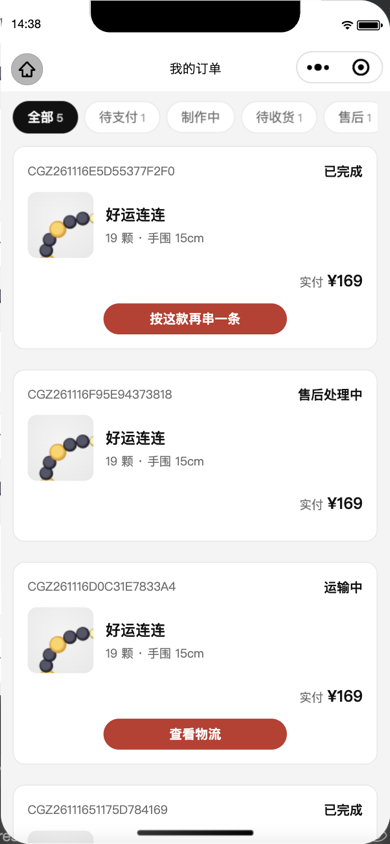
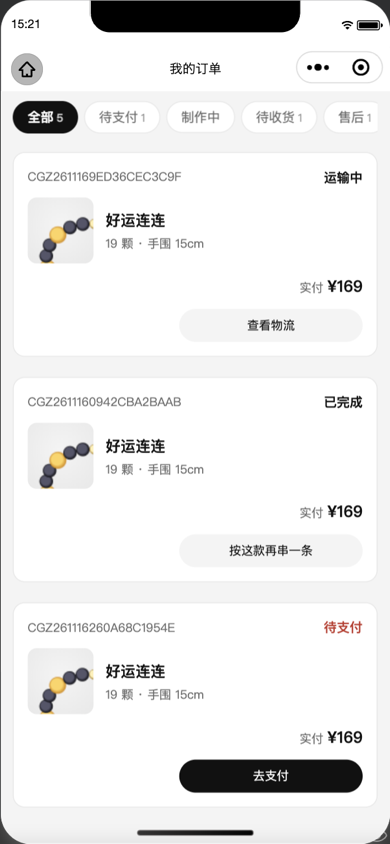
U8: 审核 1 订单动作改用黑灰小号按钮

diff --git a/miniprogram/features/orders/orders.js b/miniprogram/features/orders/orders.js
@@ -26,7 +26,8 @@ function buildRow(raw) {
     keywords,
     beads,
     afterSaleStatus: (order.state && order.state.afterSale ? order.state.afterSale.code : '') || order.afterSaleStatus || 'none',
-    action: actionCode ? { code: actionCode, label: (contract.actions || {})[actionCode] || actionCode } : null,
+    action: actionCode ? { code: actionCode, label: (contract.actions || {})[actionCode] || actionCode,
+      secondary: ['view_logistics', 'reorder', 'cancel_order', 'request_after_sale', 'edit_address', 'cancel_after_sale'].includes(actionCode) } : null,
   }
 }
 

diff --git a/docs/reports/U8.md b/docs/reports/U8.md
@@ -19,6 +19,7 @@
 | “我的”头像 | [改前](shots/U8/before/mine.png) / [改后](shots/U8/after/mine.png)；改后截图显示圆形默认头像 |
 | 分栏数字与列表一致 | `node --test miniprogram/tests/orders-visible.test.js`：`pass 2`、`fail 0` |
 | UI 规则 | `python3 tools/check-ui.py`：`UI check: 73 violations, 0 new` |
+| 审核后的按钮颜色 | [重截的我的订单](shots/U8/after/my-orders.png)：查看物流、按这款再串一条为浅灰；去支付为黑色，按钮高度用 `--h-btn-s` |
 
 ## 3. 改了的文件
 
@@ -63,3 +64,9 @@ docs/reports/shots/U8/after/mine.png
 ## 6. 没做 / 没验证 / 偏离卡片
 
 - 截图由微信开发者工具模拟器生成，未在真机逐一切换订单分栏；分栏行为由专项测试覆盖。需要负责人在真机看 `features/orders/orders` 和 `pages/mine/mine`。
+
+## 7. 审核意见处理
+
+- U8-1：订单卡动作改用 U0 的 `c-btn c-btn--s`；`view_logistics`、`reorder` 等次要动作加 `c-btn--sec`，主要动作保留黑底。原 `.btn-primary` 也不再使用红色。
+- 已重截 `after/my-orders.png`，可见浅灰色“查看物流”“按这款再串一条”和黑色“去支付”。
+- 审核后复跑：UI 检查 `UI check: 73 violations, 0 new`；后端 `Ran 607 tests`、`OK (skipped=7)`；小程序 `278/278` 通过；知识库 `200/200`、问题 0 条。
